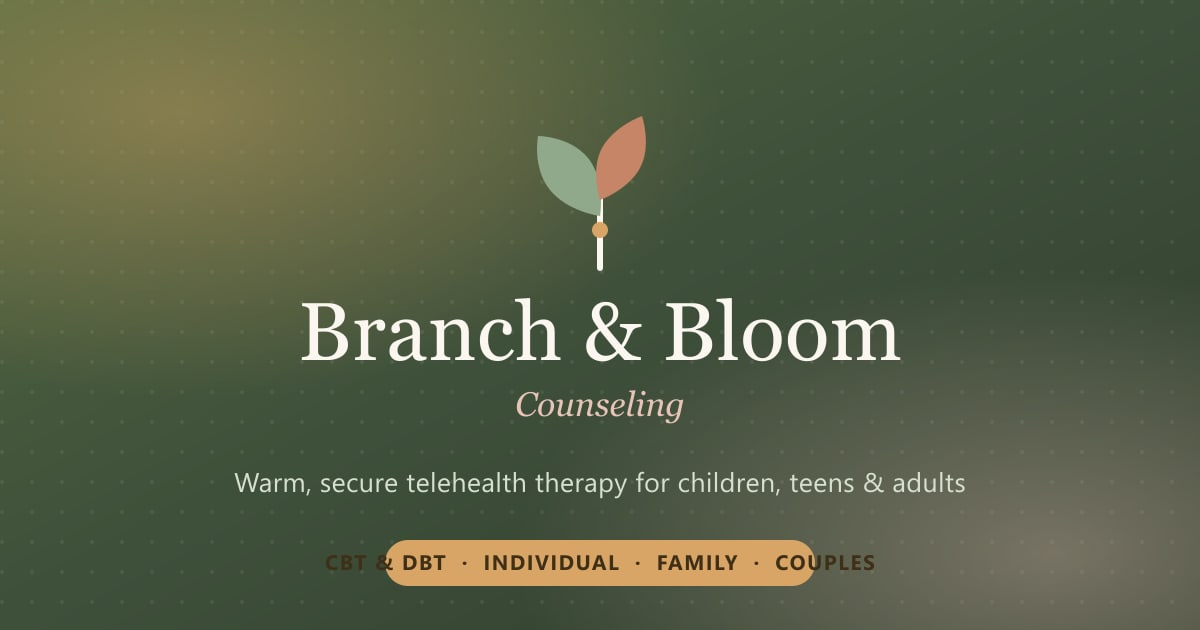
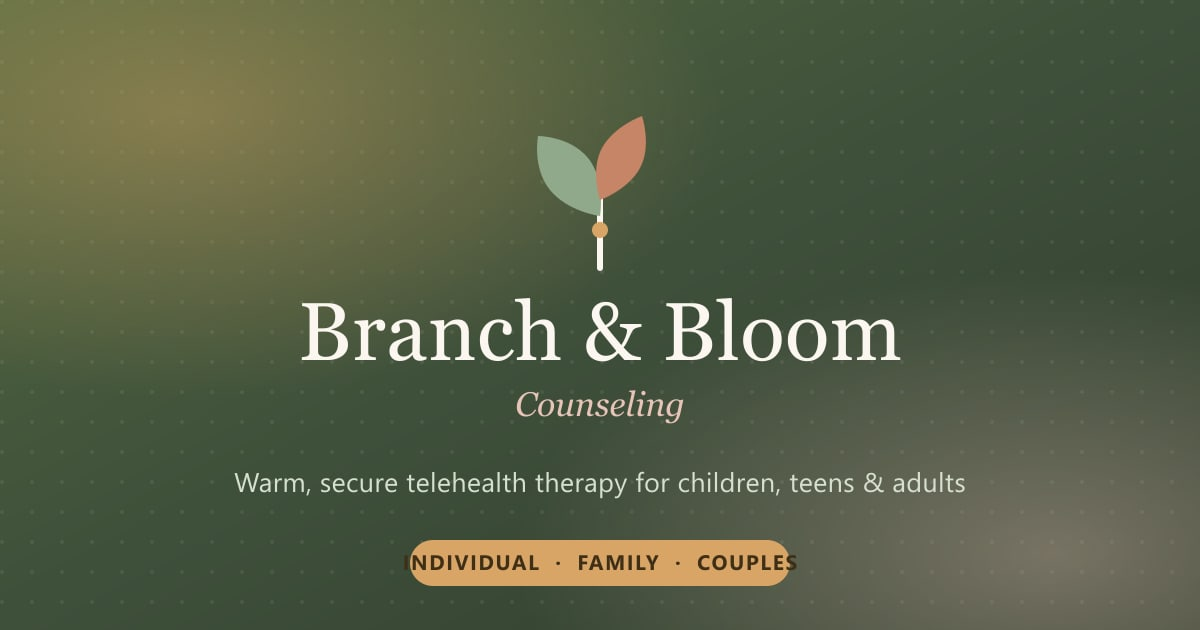
Remove CBT/DBT references sitewide; plain-language approach + new OG image

Changed region(s): [[0.2775, 0.8444, 0.74, 0.9349]]

diff --git a/index.html b/index.html
@@ -4,7 +4,7 @@
   <meta charset="UTF-8">
   <meta name="viewport" content="width=device-width, initial-scale=1.0">
   <title>Branch &amp; Bloom Counseling — Telehealth Therapy for Children, Teens &amp; Adults</title>
-  <meta name="description" content="Warm, secure telehealth counseling for children (8+), teens, and adults. Individual, family, and couples therapy grounded in CBT and DBT skills.">
+  <meta name="description" content="Warm, secure telehealth counseling for children (8+), teens, and adults. Individual, family, and couples therapy focused on practical skills for managing transitions, regulating emotions, and building resilience.">
   <link rel="canonical" href="https://mosersaa-sys.github.io/branch-and-bloom-counseling/">
   <meta name="theme-color" content="#3E4F3A">
   <meta name="robots" content="index, follow">
@@ -18,7 +18,7 @@
   <meta property="og:type" content="website">
   <meta property="og:site_name" content="Branch &amp; Bloom Counseling">
   <meta property="og:title" content="Branch &amp; Bloom Counseling — Telehealth Therapy for Children, Teens &amp; Adults">
-  <meta property="og:description" content="Warm, secure telehealth counseling for children (8+), teens, and adults. Individual, family, and couples therapy grounded in CBT and DBT skills.">
+  <meta property="og:description" content="Warm, secure telehealth counseling for children (8+), teens, and adults. Individual, family, and couples therapy focused on practical skills for managing transitions, regulating emotions, and building resilience.">
   <meta property="og:url" content="https://mosersaa-sys.github.io/branch-and-bloom-counseling/">
   <meta property="og:image" content="https://mosersaa-sys.github.io/branch-and-bloom-counseling/og-image.jpg">
   <meta property="og:image:width" content="1200">
@@ -28,7 +28,7 @@
   <!-- Twitter -->
   <meta name="twitter:card" content="summary_large_image">
   <meta name="twitter:title" content="Branch &amp; Bloom Counseling — Telehealth Therapy">
-  <meta name="twitter:description" content="Warm, secure telehealth counseling for children (8+), teens, and adults — grounded in CBT and DBT skills.">
+  <meta name="twitter:description" content="Warm, secure telehealth counseling for children (8+), teens, and adults — practical skills for transitions, emotions, and resilience.">
   <meta name="twitter:image" content="https://mosersaa-sys.github.io/branch-and-bloom-counseling/og-image.jpg">
 
   <!-- Beautiful serif headings + gentle sans body -->
@@ -448,7 +448,7 @@
     .who-3 { background: linear-gradient(155deg, #9AAF8F, #5C7256); }
     @media (max-width: 860px) { .who-grid { grid-template-columns: 1fr; } }
 
-    /* ---------- Approach (CBT / DBT) ---------- */
+    /* ---------- Approach ---------- */
     .approach-grid {
       display: grid;
       grid-template-columns: 0.9fr 1.1fr;
@@ -494,7 +494,7 @@
       display: grid; place-items: center;
       background: var(--moss); color: var(--cream);
     }
-    .modality.dbt .badge { background: var(--terracotta); }
+    .modality.alt .badge { background: var(--terracotta); }
     .modality h3 { font-size: 1.35rem; margin-bottom: 0.3rem; }
     .modality p { color: var(--muted); font-size: 1rem; }
 
@@ -771,7 +771,7 @@
           <span class="dot" style="background:#EEE6D4;">
             <svg width="18" height="18" viewBox="0 0 20 20" fill="none"><path d="M10 2a8 8 0 100 16 8 8 0 000-16z" stroke="#D9A566" stroke-width="1.6" fill="none"/><path d="M10 6v4l3 2" stroke="#D9A566" stroke-width="1.6" stroke-linecap="round"/></svg>
           </span>
-          CBT &amp; DBT skills
+          Practical, proven skills
         </div>
       </div>
     </div>
@@ -790,7 +790,7 @@
       </div>
       <div class="strip-item">
         <svg width="20" height="20" viewBox="0 0 20 20" fill="none"><path d="M10 2l2.2 4.6 5 .7-3.6 3.5.9 5L10 13.9 5.5 15.8l.9-5L2.8 7.3l5-.7L10 2z" stroke="#FBF7F0" stroke-width="1.4" stroke-linejoin="round"/></svg>
-        Evidence-based CBT &amp; DBT
+        Practical, evidence-based care
       </div>
       <div class="strip-item">
         <svg width="20" height="20" viewBox="0 0 20 20" fill="none"><path d="M10 18C6 14.5 3 11.5 3 8a4 4 0 017-2.6A4 4 0 0117 8c0 3.5-3 6.5-7 10z" stroke="#FBF7F0" stroke-width="1.6" stroke-linejoin="round"/></svg>
@@ -884,20 +884,24 @@
       <div class="approach-copy reveal">
         <span class="eyebrow">Our Approach</span>
         <h2 style="font-size:clamp(1.9rem,4vw,2.8rem); margin:1rem 0 0.6rem;">Practical skills, gently taught</h2>
-        <p style="color:var(--muted); font-size:1.08rem; margin-bottom:0.6rem;">We root our work in two proven, skills-based modalities — always adapted to the person in front of us.</p>
+        <p style="color:var(--muted); font-size:1.08rem; margin-bottom:0.6rem;">We root our work in practical, proven skills — always adapted to the person in front of us.</p>
 
-        <div class="modality cbt">
-          <div class="badge">CBT</div>
+        <div class="modality">
+          <div class="badge">
+            <svg width="26" height="26" viewBox="0 0 24 24" fill="none" stroke="currentColor" stroke-width="1.8" stroke-linecap="round" stroke-linejoin="round"><path d="M9 18h6"/><path d="M10 21h4"/><path d="M12 3a6 6 0 0 0-3.6 10.8c.5.4.8.9.9 1.5l.1.7h5.2l.1-.7c.1-.6.4-1.1.9-1.5A6 6 0 0 0 12 3z"/></svg>
+          </div>
           <div>
-            <h3>Cognitive Behavioral Therapy</h3>
+            <h3>Practical Tools</h3>
             <p>Understanding how thoughts, feelings, and actions connect — and learning gentle ways to shift the patterns that keep us stuck.</p>
           </div>
         </div>
-        <div class="modality dbt">
-          <div class="badge">DBT</div>
+        <div class="modality alt">
+          <div class="badge">
+            <svg width="26" height="26" viewBox="0 0 24 24" fill="none" stroke="currentColor" stroke-width="1.8" stroke-linecap="round" stroke-linejoin="round"><path d="M12 20C8 16.5 4 13.8 4 9.8A3.8 3.8 0 0 1 12 7a3.8 3.8 0 0 1 8 2.8c0 4-4 6.7-8 10.2z"/></svg>
+          </div>
           <div>
-            <h3>DBT Skills Training</h3>
-            <p>Concrete tools for regulating emotions, tolerating distress, and staying grounded — especially through big transitions.</p>
+            <h3>Steady Through Change</h3>
+            <p>Concrete tools for regulating emotions, riding out distress, and staying grounded — especially through big transitions.</p>
           </div>
         </div>
 
